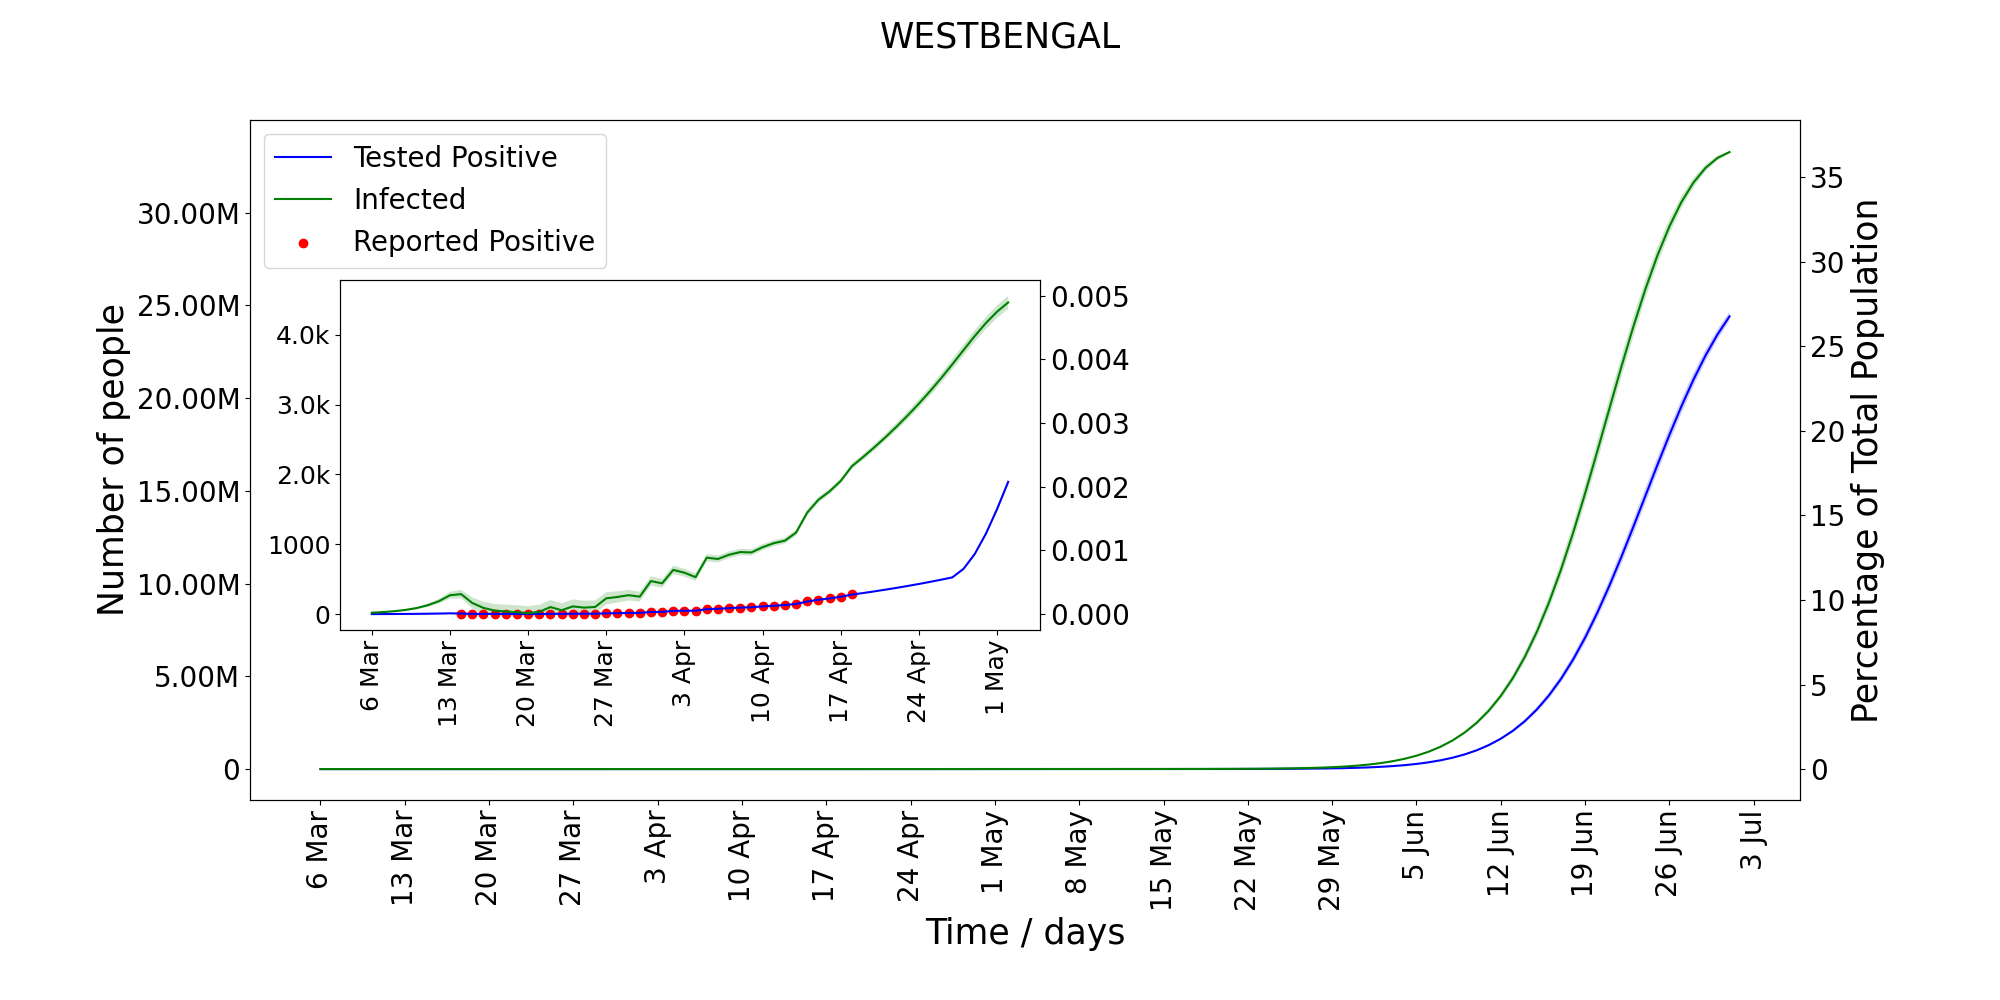
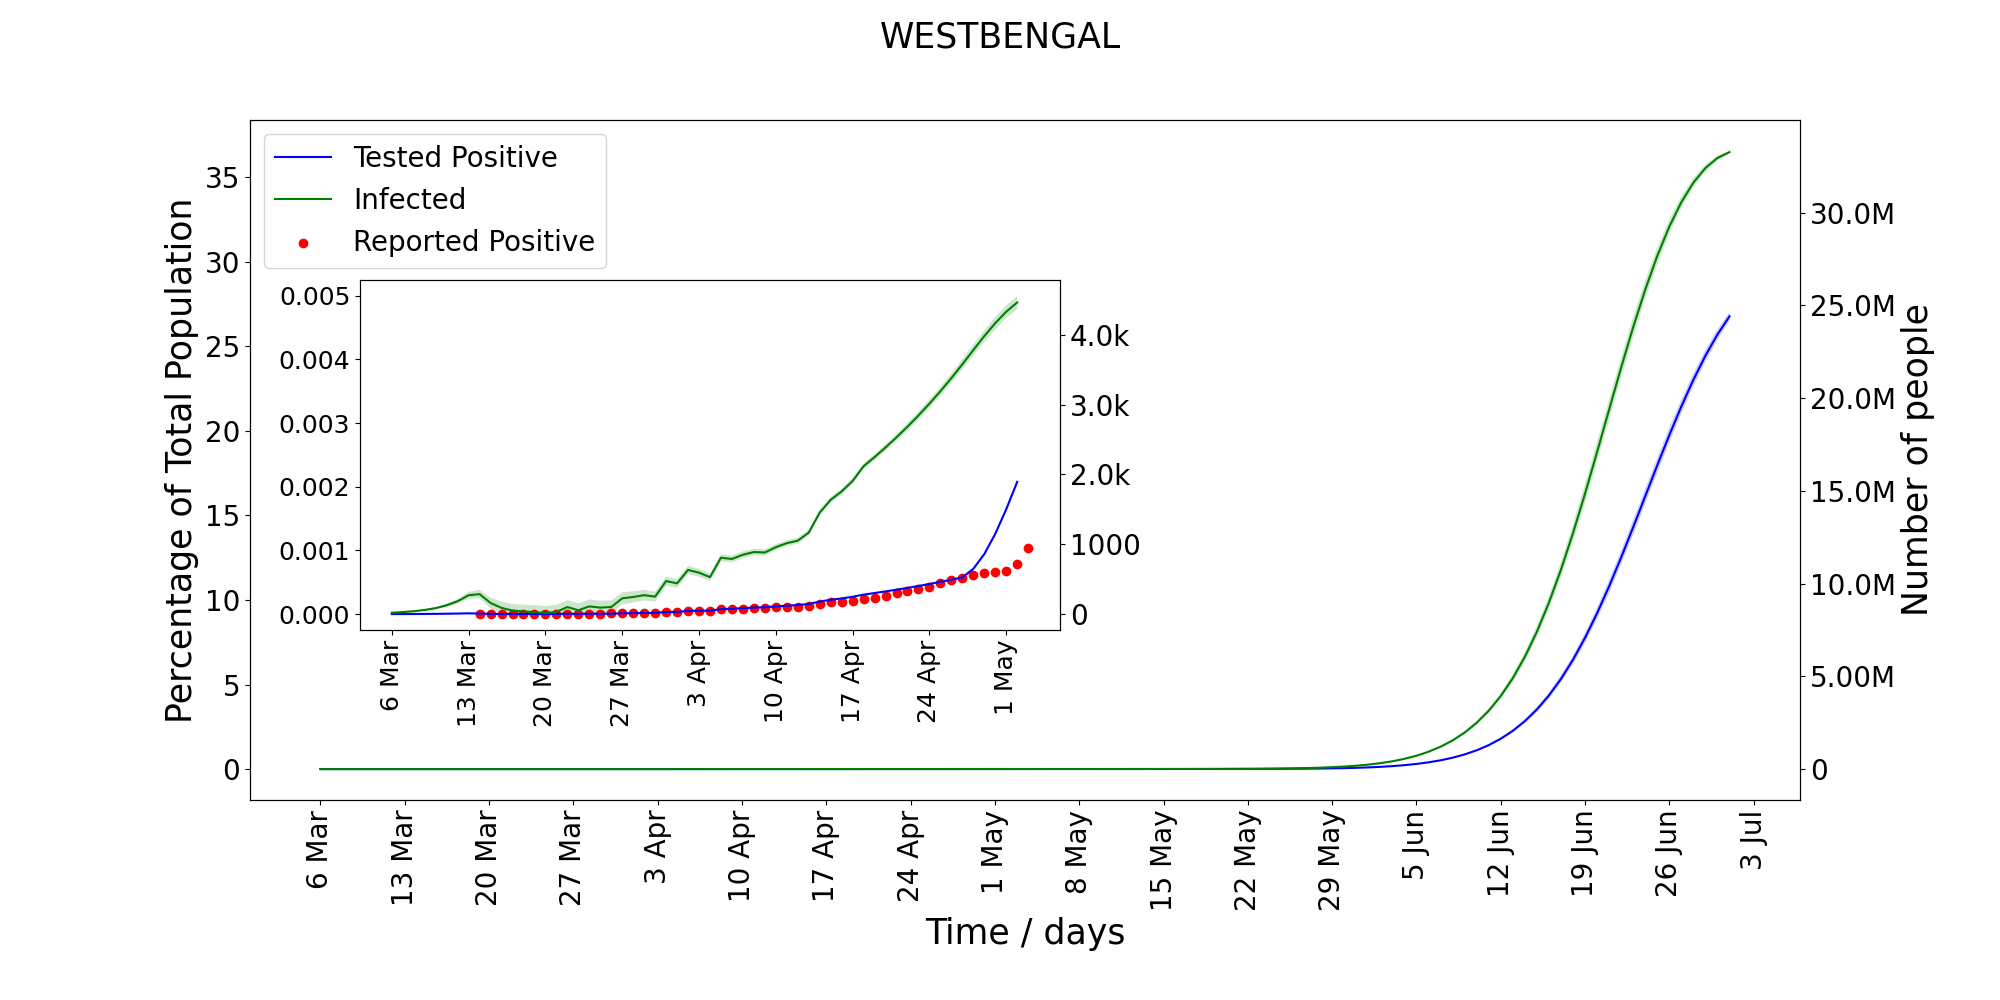
plotting remaining changes

diff --git a/Plot.py b/Plot.py
@@ -36,18 +36,23 @@ def statePlot (series, variances, state, beginDate, step, groundTruth,population
         else: return str(int(x))
     formatter = ticker.FuncFormatter(displayNumbers)
 
+    def displayDate(y, pos):
+        return (beginDate + y).date
+    formatter_date = ticker.FuncFormatter(displayDate)
+
     colors = ['b', 'g', 'r']
     p, p_std = gather(T, series, variances, compartments['P'])
     symptomatics, symptomatics_std = gather(T, series, variances, compartments['P'] + compartments['I'] + compartments['Xi'] + compartments['A'] + compartments['Xa'])
     
     #Plotting Standard Deviations for each state
 
-    tickLabels = list(DateIter(beginDate, beginDate + T + 30))[::step]
-    tickLabels = [d.date for d in tickLabels]
-    tickLabels = ['', *tickLabels]
+    # tickLabels = list(DateIter(beginDate, beginDate + T + 30))[::step]
+    # tickLabels = [d.date for d in tickLabels]
+    # tickLabels = ['', *tickLabels]
 
     fig_std, ax3 = plt.subplots(nrows=1, ncols=1, sharex=True, figsize=(20, 10))
     ax3.yaxis.set_major_formatter(formatter)
+    ax3.xaxis.set_major_formatter(formatter_date)
     fig_std.suptitle(state, fontsize=25)
 
     ax3.plot(np.arange(T), p_std, color = colors[0], label = "Standard Deviation: Tested Positive")
@@ -58,7 +63,7 @@ def statePlot (series, variances, state, beginDate, step, groundTruth,population
     ax3.set_ylabel('Number of people', fontsize=25)
     # ax1.set_yscale('log')
     ax3.xaxis.set_major_locator(ticker.MultipleLocator(step))
-    ax3.set_xticklabels(tickLabels, rotation = 'vertical')
+    plt.xticks(rotation = 'vertical')
     ax3.tick_params(axis='both', which='major', labelsize=20)
 
     fig_std.savefig('./Plots/' + state + '_STDDEV')
@@ -68,7 +73,8 @@ def statePlot (series, variances, state, beginDate, step, groundTruth,population
     #Plotting Actual State Predictions
 
     fig, ax1 = plt.subplots(nrows=1, ncols=1, sharex=True, figsize=(20, 10))
-
+    plt.xticks(rotation = 'vertical')
+    ax1.xaxis.set_major_formatter(formatter_date)
     if population is not None:
         rightAxis = ax1.twinx()
         rightAxis.yaxis.set_major_formatter(formatter)
@@ -88,7 +94,7 @@ def statePlot (series, variances, state, beginDate, step, groundTruth,population
             index += 1
         if index < len(p):
             # Shade
-            ax1.fill_between(np.arange(index, T), 0, max(symptomatics + symptomatics_std) * 1.1, facecolor = colors[2], alpha=0.1)
+            ax1.fill_between(np.arange(index, T), 0, max(symptomatics + symptomatics_std) * 1.1 * 100./population, facecolor = colors[2], alpha=0.1)
 
     ax1.scatter(np.arange(0), [], c= colors[2], label = "Reported Positive")
 
@@ -98,7 +104,6 @@ def statePlot (series, variances, state, beginDate, step, groundTruth,population
     ax1.set_ylabel('Percentage of Total Population', fontsize=25)
     # ax1.set_yscale('log')
     ax1.xaxis.set_major_locator(ticker.MultipleLocator(step))
-    ax1.set_xticklabels(tickLabels, rotation = 'vertical')
     ax1.tick_params(axis='both', which='major', labelsize=20)
     if population is not None:
         rightAxis.tick_params(axis='both', which='major', labelsize=20)

diff --git a/Simulate.py b/Simulate.py
@@ -145,7 +145,7 @@ if __name__ == "__main__" :
         lastSeries.append(series[-1])
         seriesOfVariances.append(variances[0:-1])
         lastVariance.append(variances[-1])
-        Plot.statePlot(series, variances, state, ks.startDate, 3, datum)
+        Plot.statePlot(series, variances, state, ks.startDate, 7, datum)
 
     x0 = np.hstack(lastSeries)
     n = x0.size
@@ -180,7 +180,7 @@ if __name__ == "__main__" :
     state_id = 1
     for m, datum, series, variance ,state, population in zip(model.models, data, seriesOfSeries, seriesOfVariances, Model.STATES, statePop) : 
         ks = KalmanSimulator(datum, m, x0)
-        Plot.statePlot(series, variance, state, ks.startDate, 3, datum, population = population.sum())
+        Plot.statePlot(series, variance, state, ks.startDate, 7, datum, population = population.sum())
 
         # outputting into the csv
         # need to estimate daily values from the timeseries of all the compartments
